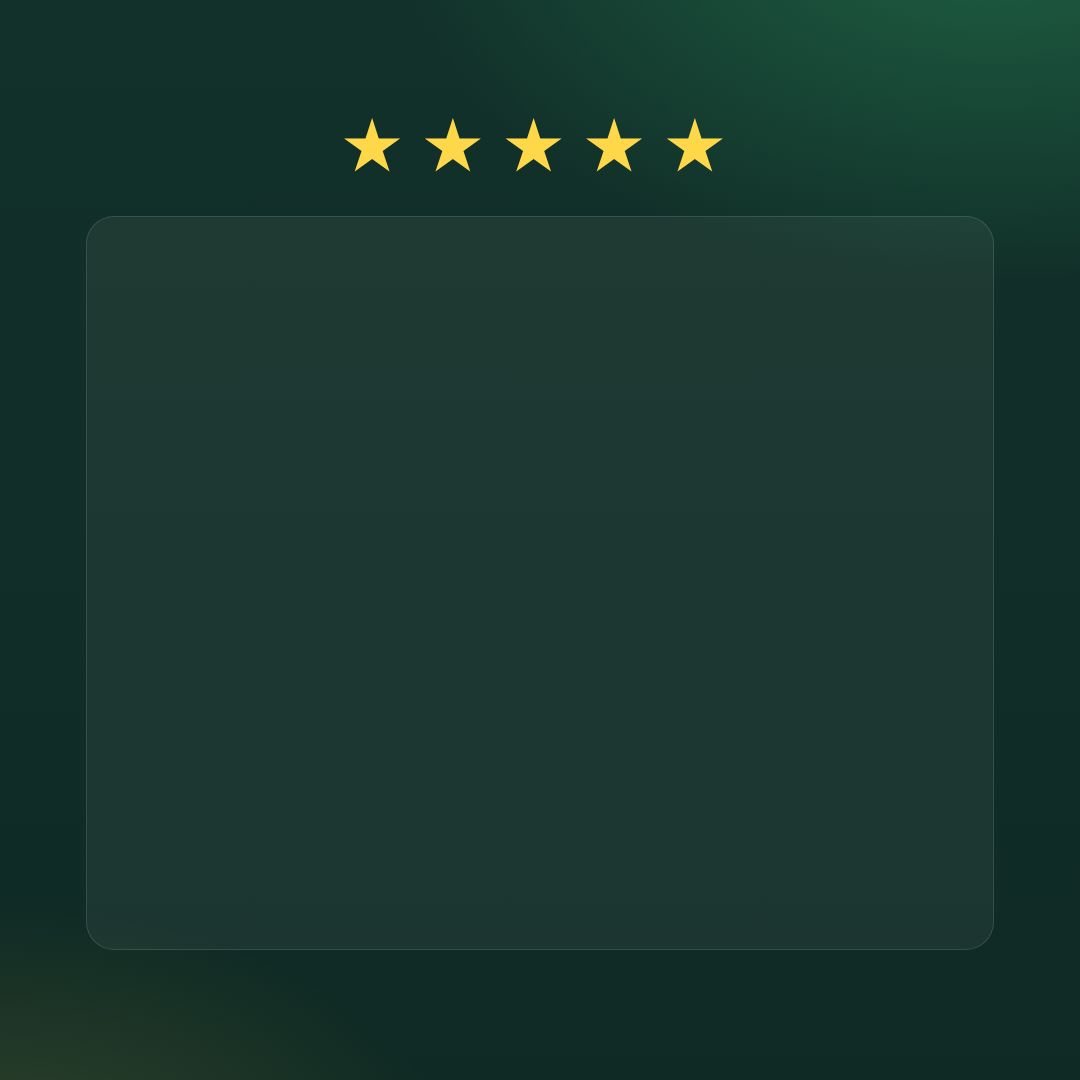
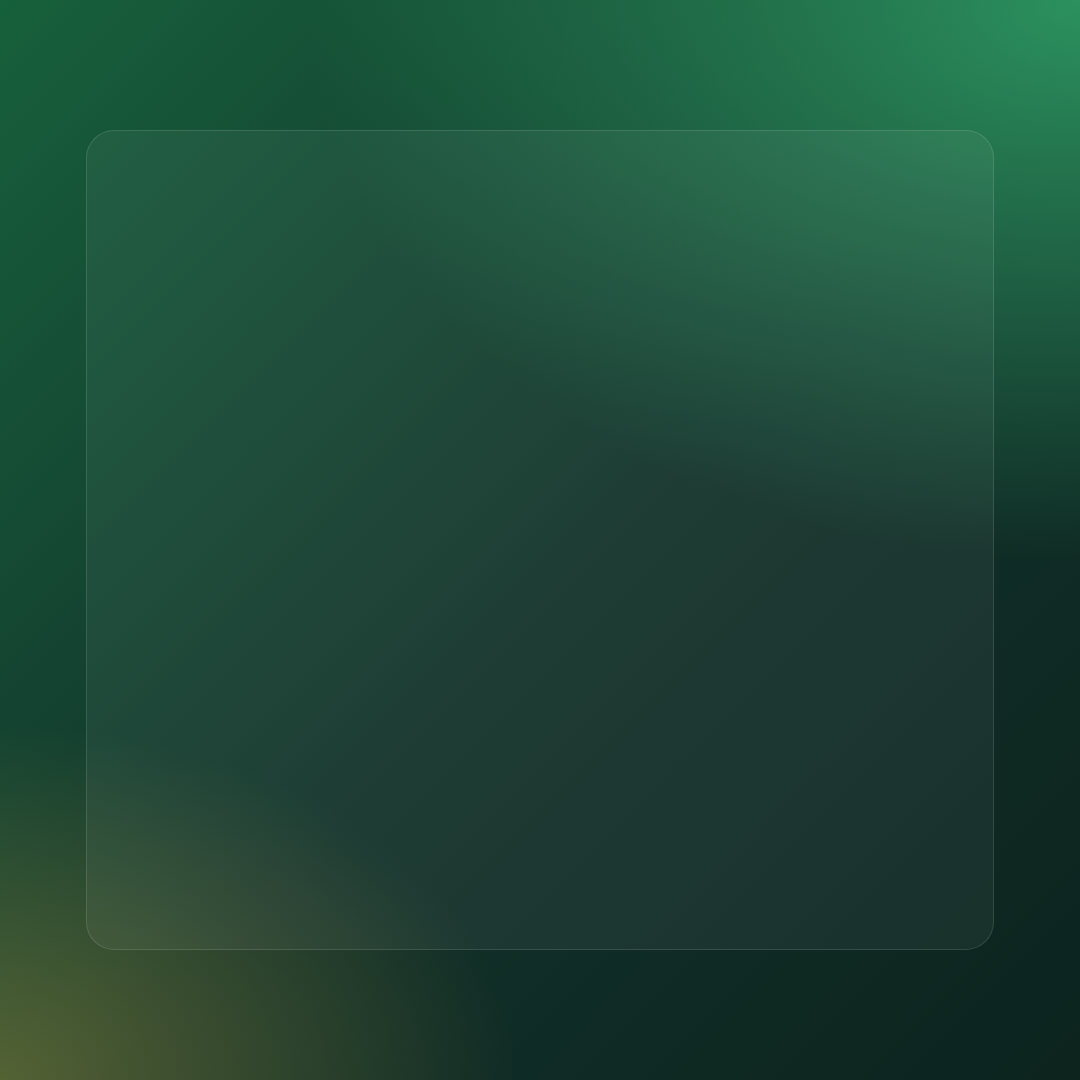
Drop stars and strengthen gradient on review backgrounds
Claude-Session: https://claude.ai/code/session_01D4drdcuwiTqeKXFsZcvxXJ

diff --git a/social/review-backgrounds/render.js b/social/review-backgrounds/render.js
@@ -1,11 +1,10 @@
 // Renders the review post backgrounds from the site's hero gradient. Run: node render.js
 const { chromium } = require('playwright');
 const page = (w, h) => `<body style="margin:0"><div style="width:${w}px;height:${h}px;position:relative;
-background:radial-gradient(${w*0.9}px ${h*0.55}px at 92% -8%,rgba(46,155,99,.45),transparent 62%),
-radial-gradient(${w*0.7}px ${h*0.4}px at 0% 108%,rgba(255,216,74,.14),transparent 60%),
-linear-gradient(180deg,#12312a,#0f2a24)">
-<div style="position:absolute;top:${h*0.1}px;width:100%;text-align:center;color:#ffd84a;font:${w*0.06}px sans-serif;letter-spacing:${w*0.012}px">★★★★★</div>
-<div style="position:absolute;inset:${h*0.2}px ${w*0.08}px ${h*0.12}px;border-radius:28px;background:rgba(255,255,255,.05);border:1px solid rgba(255,255,255,.12)"></div>
+background:radial-gradient(${w*1.1}px ${h*0.8}px at 100% 0%,rgba(46,155,99,.9),transparent 65%),
+radial-gradient(${w*0.8}px ${h*0.55}px at 0% 100%,rgba(255,216,74,.28),transparent 60%),
+linear-gradient(135deg,#17603c,#12312a 55%,#0c231e)">
+<div style="position:absolute;inset:${h*0.12}px ${w*0.08}px ${h*0.12}px;border-radius:28px;background:rgba(255,255,255,.05);border:1px solid rgba(255,255,255,.12)"></div>
 </div></body>`;
 (async () => {
   const b = await chromium.launch();
